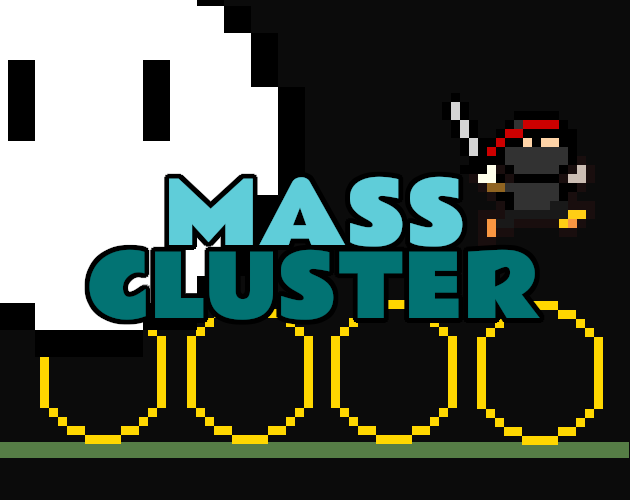
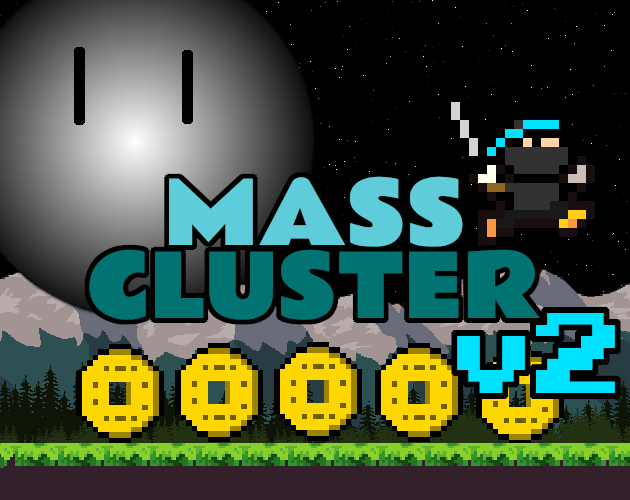
updated mass cluster

diff --git a/index.html b/index.html
@@ -33,7 +33,7 @@
       </div>
 
       <div id="masscluster" class="highlight">
-        <p><a href="https://stephensoul.itch.io/masscluster" target="_blank" rel="noopener">Itch.io link to project</a></p>
+        <p><a href="https://stephensoul.itch.io/masscluster" target="_blank" rel="noopener">Itch.io link to download project</a></p>
         <!--Slide show-->
         <div class="w3-center slideshow-container">
           <div class="mySlides fade">
@@ -51,11 +51,12 @@
           </div>
         </div>
         <em>What's the game goal?</em>
-        <p>&nbsp You're a ninja. You have no memory of why you are where you are. In this arcade adventure,
-          escape the Mass Cluster as it rolls its way through this dynamic world. There are 50 randomly generated levels
-          and a high score list to prove you are the Mass Cluster champion. Every 10 levels you have a timed decision to
-          make for a small upgrade. You have two choices; wager your points in an effort to get further or risk it all to
-          achieve glory. The rules are simple, but your execution is what matters.</p>
+        <p>&nbsp Long ago in the Edo era, a famed samurai got caught by the riverside by a famed Kappa. The Kappa attacked in search of his
+          shirikodama, but the samurai fought back and mutual blows were dealt. In a surprise twist, the shirikodama became sentient and consumed
+          the Kappa, becoming a god in of itself; the Mass Cluster. Today, it is tradition that fledgling ninjas far and wide visit the land where
+          the samurai met his fate in an effort to upset and escape the shirikodama's curse. The ninjas that can escape become enveloped in fame,
+          the ones that can't are consumed and cursed to wander the land hunting for the next to take the challenge.
+        </p>
         <em>What's the story behind the development?</em>
         <p>&nbsp This was made for the "Horror For My Valentine" game jam. From its initial inception, I had the basics of a goal;
           "You are a part of me" was the theme, so I thought why not make a ball that rolls forever forward, absorbing players and
@@ -69,7 +70,19 @@
         </ol>
         <p>&nbsp Taking everything into consideration once the jam was over I took a step back and remade some aspects to better explain to the player,
           through simpler gameplay mechanics, everything the player needed to learn without using wordy tutorials. I wanted the game to be "easy to 
-          play, difficult to master" and quick to jump in and try to get a high score without the game having a "forever length".
+          play, difficult to master" and quick to jump in and try to get a high score without the game having a "forever length". So, I finally released v2 of
+          Mass Cluster. With, hopefully, a healthy dose of challenge and fun. I understand some of the gameplay mechanics can be a little harder to master but I
+          tried to blend mechanics as much as I could to make something that took some practice to complete. I gave the tutorial some signs and I set up some practice
+          walls to learn some mechanics early and I set a cap on the levels. 30. If you make it all the way, you get bonus points. And there's even upgrades you can
+          wager points on to help you complete the game easier.
+        </p>
+        <em>Any oddball bits from development?</em>
+        <p>
+          &nbsp There was one notable one that I'm fairly sure was caused by my cat. I had an issue where the game would crash upon hitting the "Start" button. No fancy errors,
+          in fact there was no errors at all. It was just... Crashing. It went on for about a month before I did something about it. I found out, through a lovely member
+          of the Discord community for Godot who helped me debug, that the mass cluster's particle effect's gradient effect was <i>slightly</i> larger than normal. Normally,
+          this shouldn't have even been an issue. And I couldn't replicate it on any other project. It was just some perfect storm that caused a random crash roughly 60% of
+          the time.
         </p>
       </div>
       <!-- <div id="nextgame">
